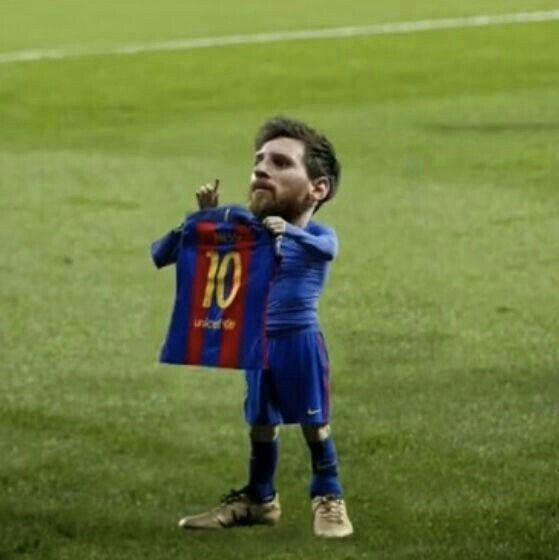
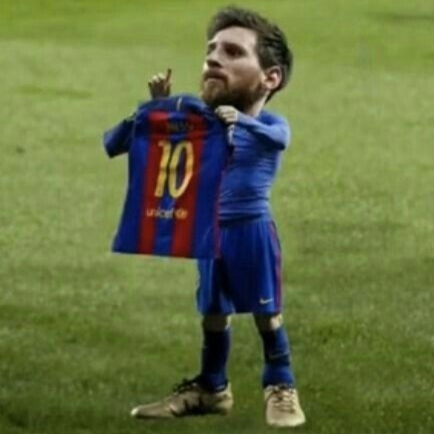
Improve gui

diff --git a/src/main/resources/css/main.css b/src/main/resources/css/main.css
@@ -1,26 +1,36 @@
 /* main.css */
 
+/*
+AI usage (main.css):
+ChatGPT was consulted for high-level JavaFX CSS styling ideas for the main UI, including
+background gradient selection, input-field focus feedback, button glow/pressed states,
+scrollbar theming. The final styles were reviewed and adjusted by me, and all changes
+were implemented and tested by me.
+*/
+
 .root {
-    /* Telegram-ish dark background (subtle gradient, not flat) */
+    /* telegram-ish dark background */
     -fx-background-color: linear-gradient(to bottom right, #0b0f14, #0f1a28, #0b0f14);
 
-    /* App-wide Telegram-like font */
+    /* telegram-like font */
     -fx-font-family: "Segoe UI", "System", "Arial";
 }
 
-/* Keep scroll area blended into background */
+/* scroll area blended into background */
 .scroll-pane,
 .scroll-pane .viewport {
     -fx-background-color: transparent;
 }
 
-/* Optional: remove scrollpane border */
+/* to remove scrollpane border */
 .scroll-pane {
     -fx-background-insets: 0;
     -fx-padding: 0;
+    -fx-border-color: rgba(255,255,255,0.06);
+    -fx-border-width: 0;
 }
 
-/* Input field */
+/* input field */
 .text-field {
     -fx-background-color: rgba(20, 26, 34, 0.92);
     -fx-text-fill: #e5e7eb;
@@ -34,9 +44,23 @@
     -fx-border-width: 1;
 
     -fx-padding: 10 12 10 12;
+
+    -fx-highlight-fill: rgba(42, 157, 244, 0.35);
+    -fx-highlight-text-fill: #ffffff;
+    -fx-caret-color: #ffffff;
 }
 
-/* Send button */
+/* input field lighting up when user is typing */
+.text-field:focused {
+    -fx-border-color: rgba(255,255,255,0.35);
+    -fx-border-width: 1.2;
+
+    -fx-effect:
+            dropshadow(gaussian, rgba(255,255,255,0.20), 18, 0.10, 0, 0),
+            dropshadow(gaussian, rgba(0,0,0,0.25), 12, 0.15, 0, 4);
+}
+
+/* send button */
 .button {
     -fx-background-color: linear-gradient(to bottom, #2a9df4, #1f78d1);
     -fx-text-fill: white;
@@ -46,19 +70,54 @@
 
     -fx-background-radius: 16;
     -fx-border-radius: 16;
+    -fx-border-color: rgba(255,255,255,0.10);
+    -fx-border-width: 1;
 
     -fx-padding: 10 14 10 14;
+
+    /* softer base depth */
+    -fx-effect:
+            dropshadow(gaussian, rgba(0,0,0,0.28), 16, 0.18, 0, 6);
 }
 
+/* hover: smooth glow */
 .button:hover {
-    -fx-background-color: linear-gradient(to bottom, #39a7ff, #207fdd);
+    -fx-background-color: linear-gradient(to bottom, #53b6ff, #2a8be6);
+
+    /* very subtle outline */
+    -fx-border-color: rgba(255,255,255,0.22);
+    -fx-border-width: 1;
+
+    /* layered glow + large halo */
+    -fx-effect:
+            dropshadow(gaussian, rgba(255,255,255,0.22), 10, 0.18, 0, 0),
+            dropshadow(gaussian, rgba(255,255,255,0.55), 34, 0.10, 0, 0),
+            dropshadow(gaussian, rgba(0,0,0,0.22), 16, 0.16, 0, 7);
 }
 
+/* slightly less halo while holding click */
+.button:armed {
+    -fx-effect:
+            dropshadow(gaussian, rgba(255,255,255,0.35), 22, 0.08, 0, 0),
+            dropshadow(gaussian, rgba(0,0,0,0.26), 14, 0.16, 0, 6);
+}
+
+/* when pressed: glow dials down + button feels pushed in */
 .button:pressed {
     -fx-background-color: linear-gradient(to bottom, #1b6fbf, #145a9c);
+
+    -fx-effect:
+            dropshadow(gaussian, rgba(255,255,255,0.18), 14, 0.06, 0, 0),
+            dropshadow(gaussian, rgba(0,0,0,0.34), 12, 0.18, 0, 5);
 }
 
-/* Scrollbar */
+/* focus ring for keyboard navigation on the button */
+.button:focused {
+    -fx-border-color: rgba(255,255,255,0.30);
+    -fx-border-width: 1;
+}
+
+/* scrollbar */
 .scroll-bar {
     -fx-background-color: transparent;
 }
@@ -72,7 +131,16 @@
     -fx-background-radius: 1em;
 }
 
-/* Hide increment/decrement buttons */
+/* scrollbar hover and/or pressed feedback */
+.scroll-bar .thumb:hover {
+    -fx-background-color: rgba(90, 110, 140, 0.85);
+}
+
+.scroll-bar .thumb:pressed {
+    -fx-background-color: rgba(120, 145, 185, 0.90);
+}
+
+/* hide increment/decrement buttons */
 .scroll-bar .increment-button,
 .scroll-bar .decrement-button {
     -fx-pref-height: 0;

diff --git a/src/main/resources/css/dialog-box.css b/src/main/resources/css/dialog-box.css
@@ -1,21 +1,81 @@
 /* dialog-box.css */
 
-/* Bubble container (user default) */
+/*
+AI usage (DialogBox CSS):
+ChatGPT was consulted for GUI styling ideas specific to the dialog box, including
+bubble colour palettes and gradients, border/glow choices, rounded-corner shaping,
+spacing/padding refinements, and timestamp typography/alignment for readability.
+All styling decisions were reviewed and adapted by me, and the final CSS changes were
+implemented, integrated, and tested by me.
+*/
+
+
+/* background */
+.root {
+    -fx-background-color: linear-gradient(to bottom right,
+    #22324a,   /* light navy */
+    #1e3a5f,   /* blue mid */
+    #2a2f4a,   /* muted violet/navy */
+    #3a2433    /* subtle wine tint to match red */
+    );
+
+    -fx-font-family: "Segoe UI", "System", "Arial";
+}
+
+/* width control:
+   - user bubble stays compact
+   - ONLY bot bubble gets longer
+*/
+.bubble {
+    -fx-max-width: 360px;
+}
+
+.bubble.reply-bubble {
+    -fx-max-width: 620px;
+}
+
+/* bubble container (user default) */
 .bubble {
     -fx-background-color: linear-gradient(to bottom, #2a9df4, #1f78d1);
     -fx-background-radius: 18;
+
+    /* thin white outline */
+    -fx-border-color: rgba(255, 255, 255, 0.65);
+    -fx-border-width: 1;
     -fx-border-radius: 18;
-    -fx-border-width: 0;
 
-    -fx-effect: dropshadow(gaussian, rgba(0,0,0,0.35), 10, 0.2, 0, 3);
+    /* smoother glow */
+    -fx-effect:
+            dropshadow(gaussian, rgba(255,255,255,0.18), 20, 0.10, 0, 0),
+            dropshadow(gaussian, rgba(0,0,0,0.28), 14, 0.16, 0, 6);
 }
 
-/* Bot bubble */
+/* protagonist bubble */
 .bubble.reply-bubble {
-    -fx-background-color: linear-gradient(to bottom, #2d323a, #23272e);
+    -fx-background-color: linear-gradient(to bottom, #640337, #50010d);
+    -fx-background-radius: 18;
+
+    /* thin red outline */
+    -fx-border-color: rgba(255, 70, 70, 0.80);
+    -fx-border-width: 1;
+    -fx-border-radius: 18;
+
+    /* smoother red halo + depth */
+    -fx-effect:
+            dropshadow(gaussian, rgba(255,60,60,0.22), 22, 0.10, 0, 0),
+            dropshadow(gaussian, rgba(0,0,0,0.28), 14, 0.16, 0, 6);
 }
 
-/* Message text */
+/* hover polish (only applies if bubble nodes receive hover) */
+.bubble:hover {
+    -fx-border-color: rgba(255, 255, 255, 0.85);
+}
+
+.bubble.reply-bubble:hover {
+    -fx-border-color: rgba(255, 110, 110, 0.90);
+}
+
+/* message text */
 #dialog {
     -fx-background-color: transparent;
     -fx-padding: 0;
@@ -23,27 +83,32 @@
 
     -fx-font-family: "Segoe UI", "System", "Arial";
     -fx-font-size: 15px;
+
+    -fx-wrap-text: true;
+    -fx-line-spacing: 1px;
 }
 
-/* Bot message text */
+/* bot message text */
 .bubble.reply-bubble #dialog {
     -fx-text-fill: #e5e7eb;
 }
 
-/* Timestamp under message, right aligned */
+/* timestamp under message, right aligned */
 .time-label {
     -fx-font-family: "Segoe UI", "System", "Arial";
-    -fx-font-size: 11px;
-    -fx-text-fill: rgba(255,255,255,0.55);
-    -fx-padding: 0;
+    -fx-font-size: 10.5px;
+    -fx-text-fill: rgba(255,255,255,0.45);
+    -fx-padding: 3 0 0 0;
 }
 
-/* Bot timestamp */
+/* bot timestamp */
 .bubble.reply-bubble .time-label {
-    -fx-text-fill: rgba(229,231,235,0.45);
+    -fx-text-fill: rgba(229,231,235,0.38);
 }
 
-/* Avatar shadow */
+/* avatar shadow */
 #displayPicture {
-    -fx-effect: dropshadow(gaussian, rgba(0,0,0,0.35), 10, 0.2, 0, 3);
+    -fx-effect:
+            dropshadow(gaussian, rgba(0,0,0,0.35), 12, 0.18, 0, 4),
+            dropshadow(gaussian, rgba(255,255,255,0.18), 18, 0.10, 0, 0);
 }

diff --git a/src/main/java/protagonist/io/Ui.java b/src/main/java/protagonist/io/Ui.java
@@ -7,7 +7,7 @@ import protagonist.task.TaskList;
  * Prints messages and error messages according to taskList or task inputs
  */
 public class Ui {
-    private static final int LINE_WIDTH = 45;
+    private static final int LINE_WIDTH = 60;
     private static final String LINE_CHAR = "-";
 
     /**
